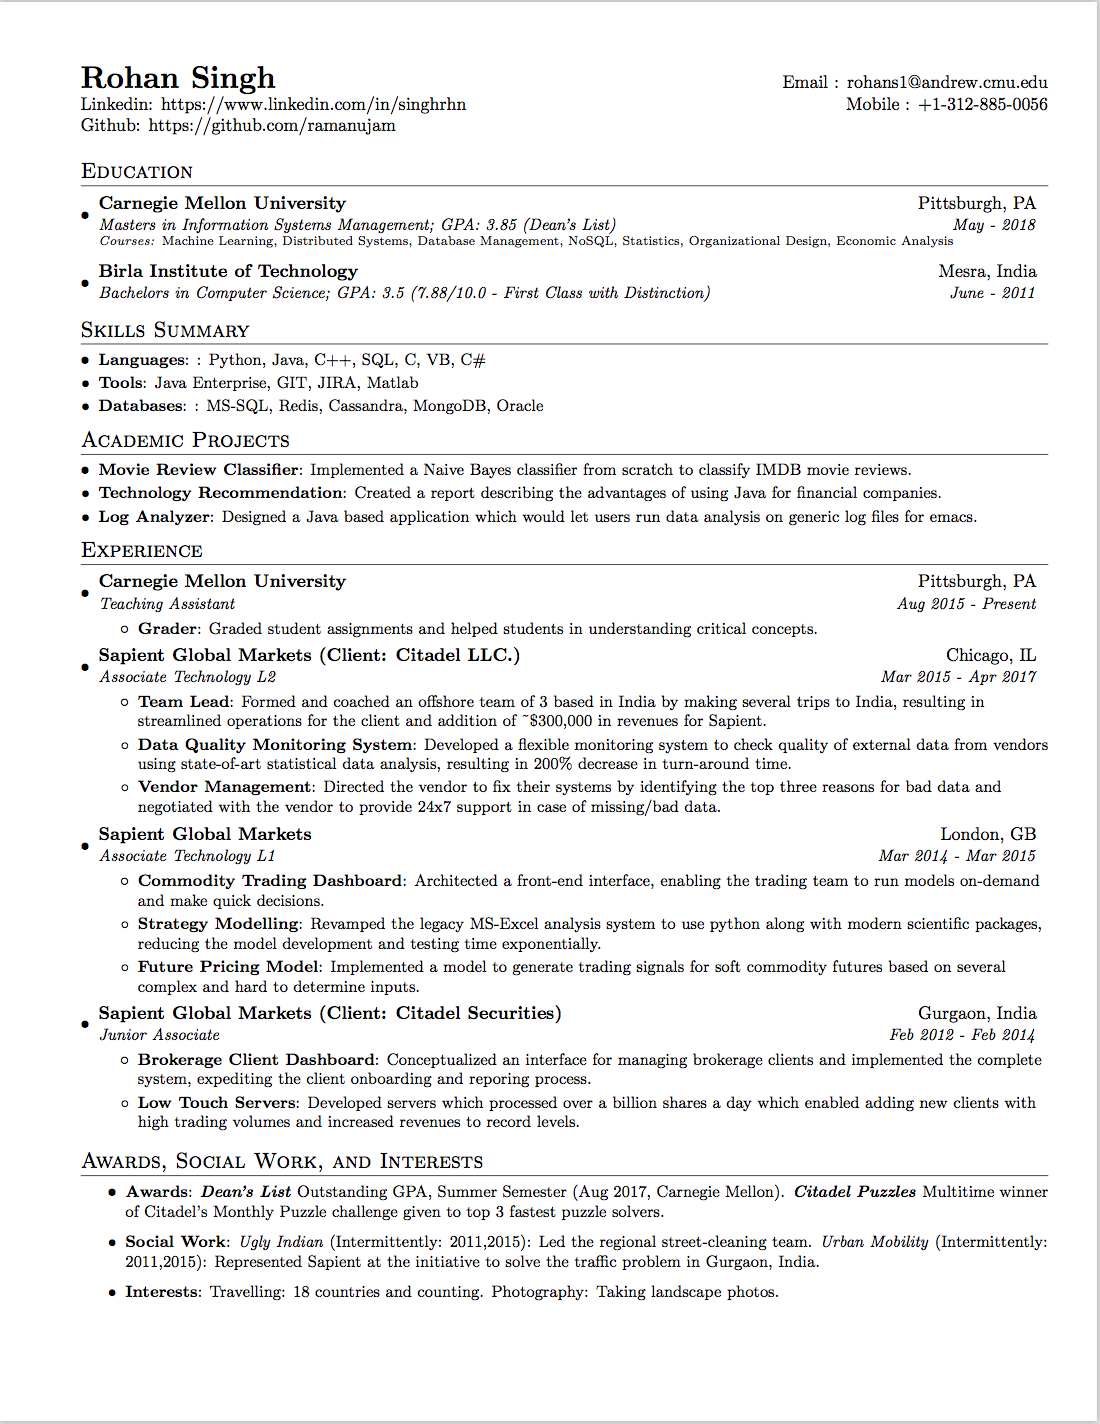
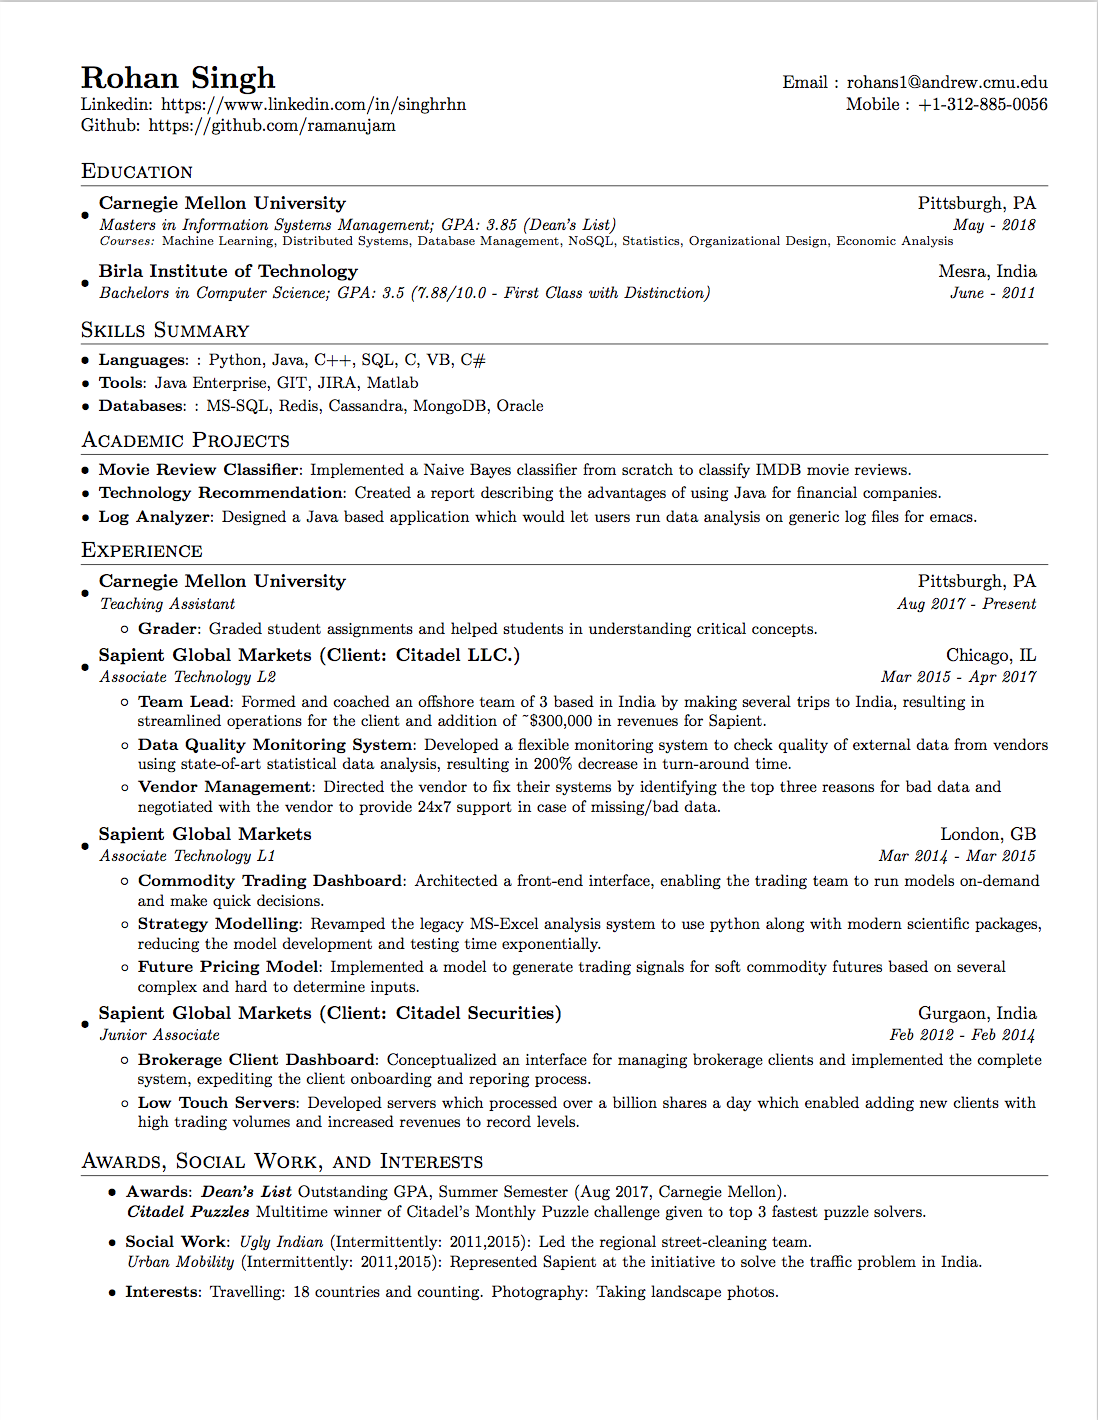
fix typo

Changed region(s): [[0.0619, 0.031, 0.9599, 0.9296], [0.0, 0.0, 1.0, 1.0], [0.7122, 0.031, 0.9599, 0.093]]

diff --git a/rohan_singh_tech.tex b/rohan_singh_tech.tex
@@ -118,7 +118,7 @@
   \resumeSubHeadingListStart
 	 \resumeSubheading
 	{Carnegie Mellon University}{Pittsburgh, PA}
-	{Teaching Assistant}{Aug 2015 -  Present}
+	{Teaching Assistant}{Aug 2017 -  Present}
 	\resumeItemListStart
 	\resumeItem{Grader}
 	{Graded student assignments and helped students in understanding critical concepts.}
@@ -160,8 +160,8 @@
 \section{Awards, Social Work, and Interests}
 \resumeItemListStart
 	\resumeItem{Awards}
-	{\textbf{\textit{Dean's List}} Outstanding GPA, Summer Semester (Aug 2017, Carnegie Mellon). \textbf{\textit{Citadel Puzzles}} Multitime winner of Citadel's Monthly Puzzle challenge given to top 3 fastest puzzle solvers.}
-	\resumeItem{Social Work}{\textit{Ugly Indian} (Intermittently: 2011,2015): Led the regional street-cleaning team. \textit{Urban Mobility} (Intermittently: 2011,2015): Represented Sapient at the initiative to solve the traffic problem in Gurgaon, India.}
+	{\textbf{\textit{Dean's List}} Outstanding GPA, Summer Semester (Aug 2017, Carnegie Mellon).\\ \textbf{\textit{Citadel Puzzles}} Multitime winner of Citadel's Monthly Puzzle challenge given to top 3 fastest puzzle solvers.}
+	\resumeItem{Social Work}{\textit{Ugly Indian} (Intermittently: 2011,2015): Led the regional street-cleaning team. \\\textit{Urban Mobility} (Intermittently: 2011,2015): Represented Sapient at the initiative to solve the traffic problem in India.}
 	\resumeItem{Interests}{Travelling: 18 countries and counting. Photography: Taking landscape photos.}
 	\resumeItemListEnd
 %-------------------------------------------
